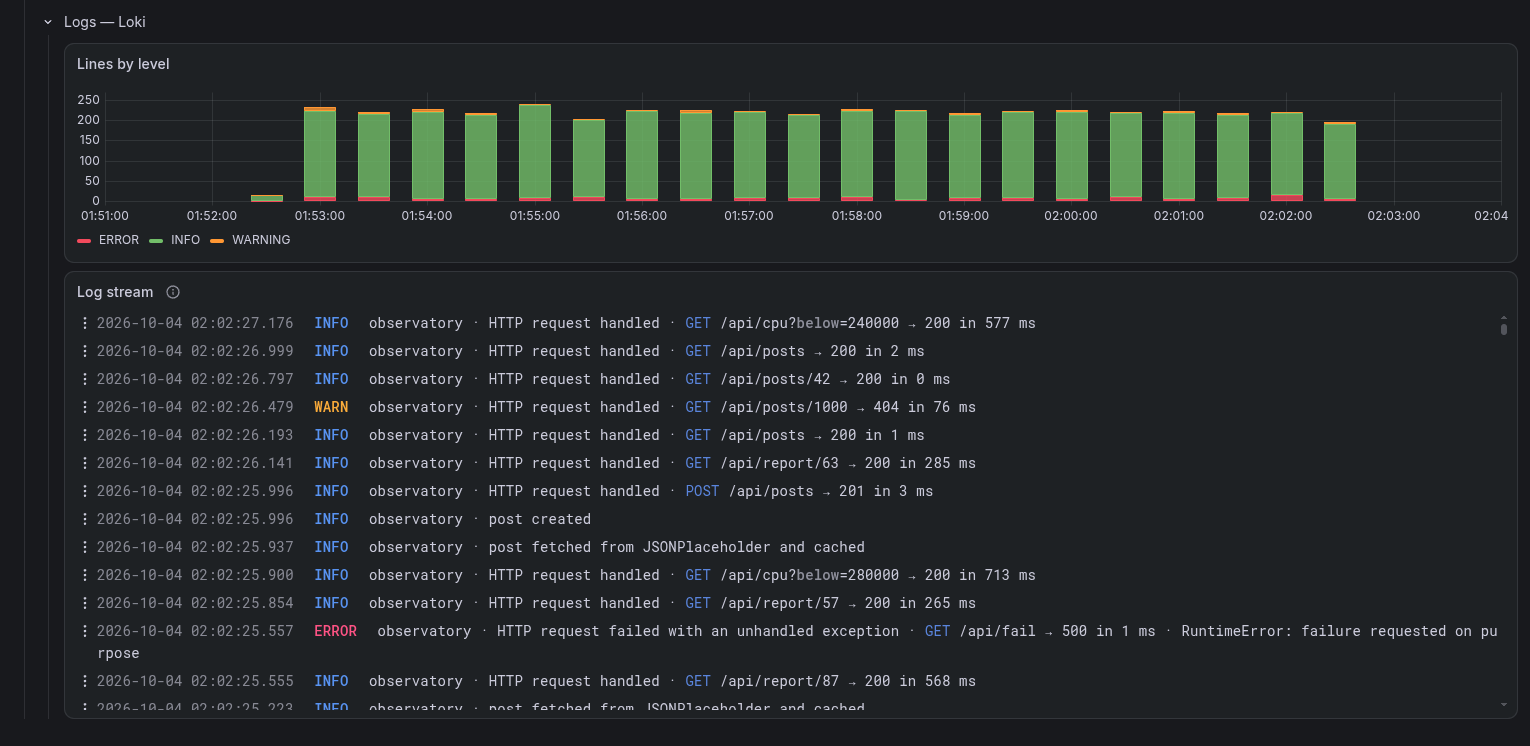
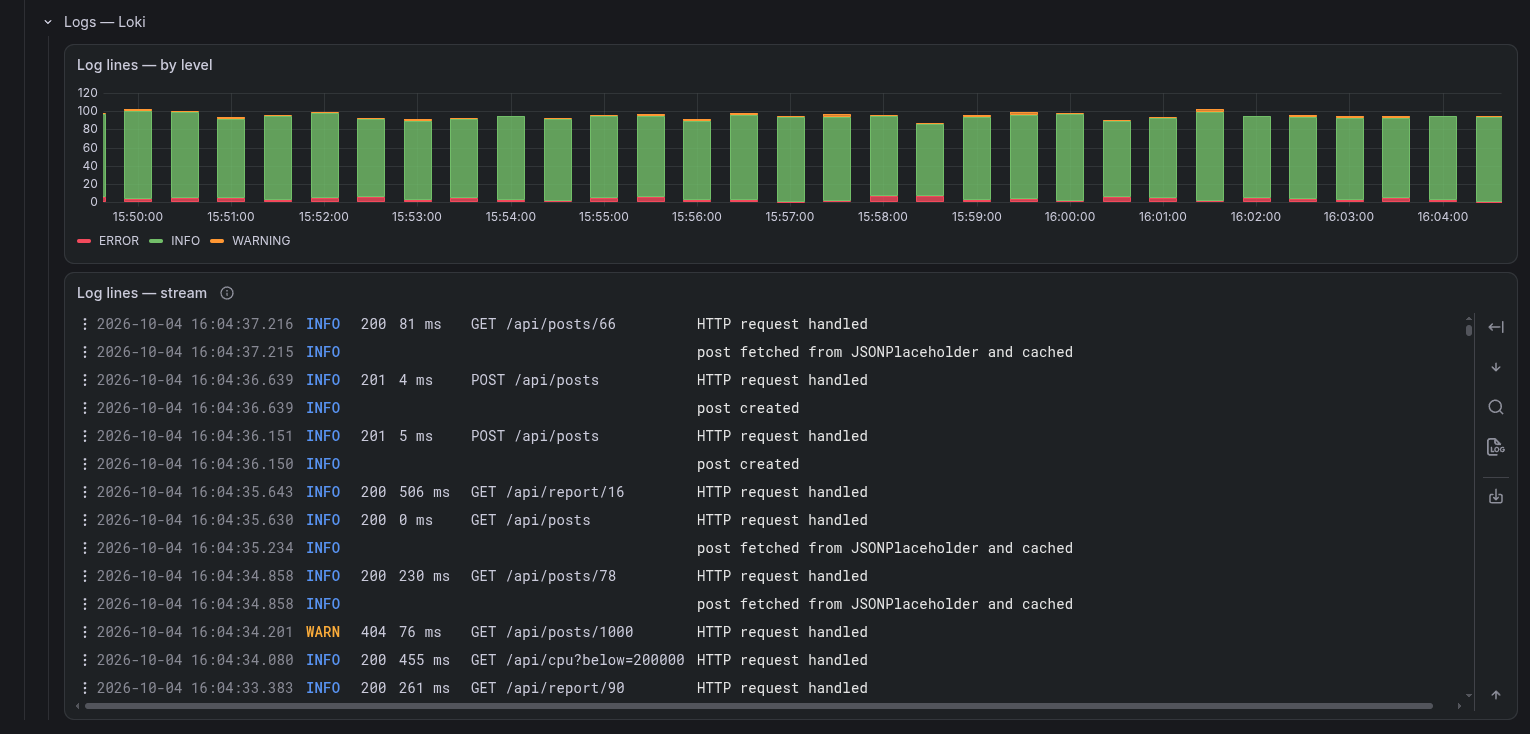
feat(dashboard): log lines in columns — level, status, duration, request, message
The stream no longer glues a line together with line_format: the request becomes fields shown as aligned columns beside the level, the message stays the message, and an error adds its type and text. Syntax highlighting, details in a sidebar, a level filter and a download in the controls.

diff --git a/README.md b/README.md
@@ -136,7 +136,7 @@ promise kept, why, and the evidence. Groups nest — a dashboard in the v2 schem
 | | Process, collapsed | memory · threads · open files per worker · GC |
 | | Profiling, collapsed | flame graph |
 | Traces & logs | Traces | recent, slow and failed traces |
-| | Logs | lines by level · the stream |
+| | Logs | lines by level · the stream: time, level, status, duration, request and message in columns |
 
 Every route and every worker is drawn; the variables narrow them — `Route` to some routes, `Host`
 to the workers of one container or pod. Each title says what is measured, then how it is cut:
